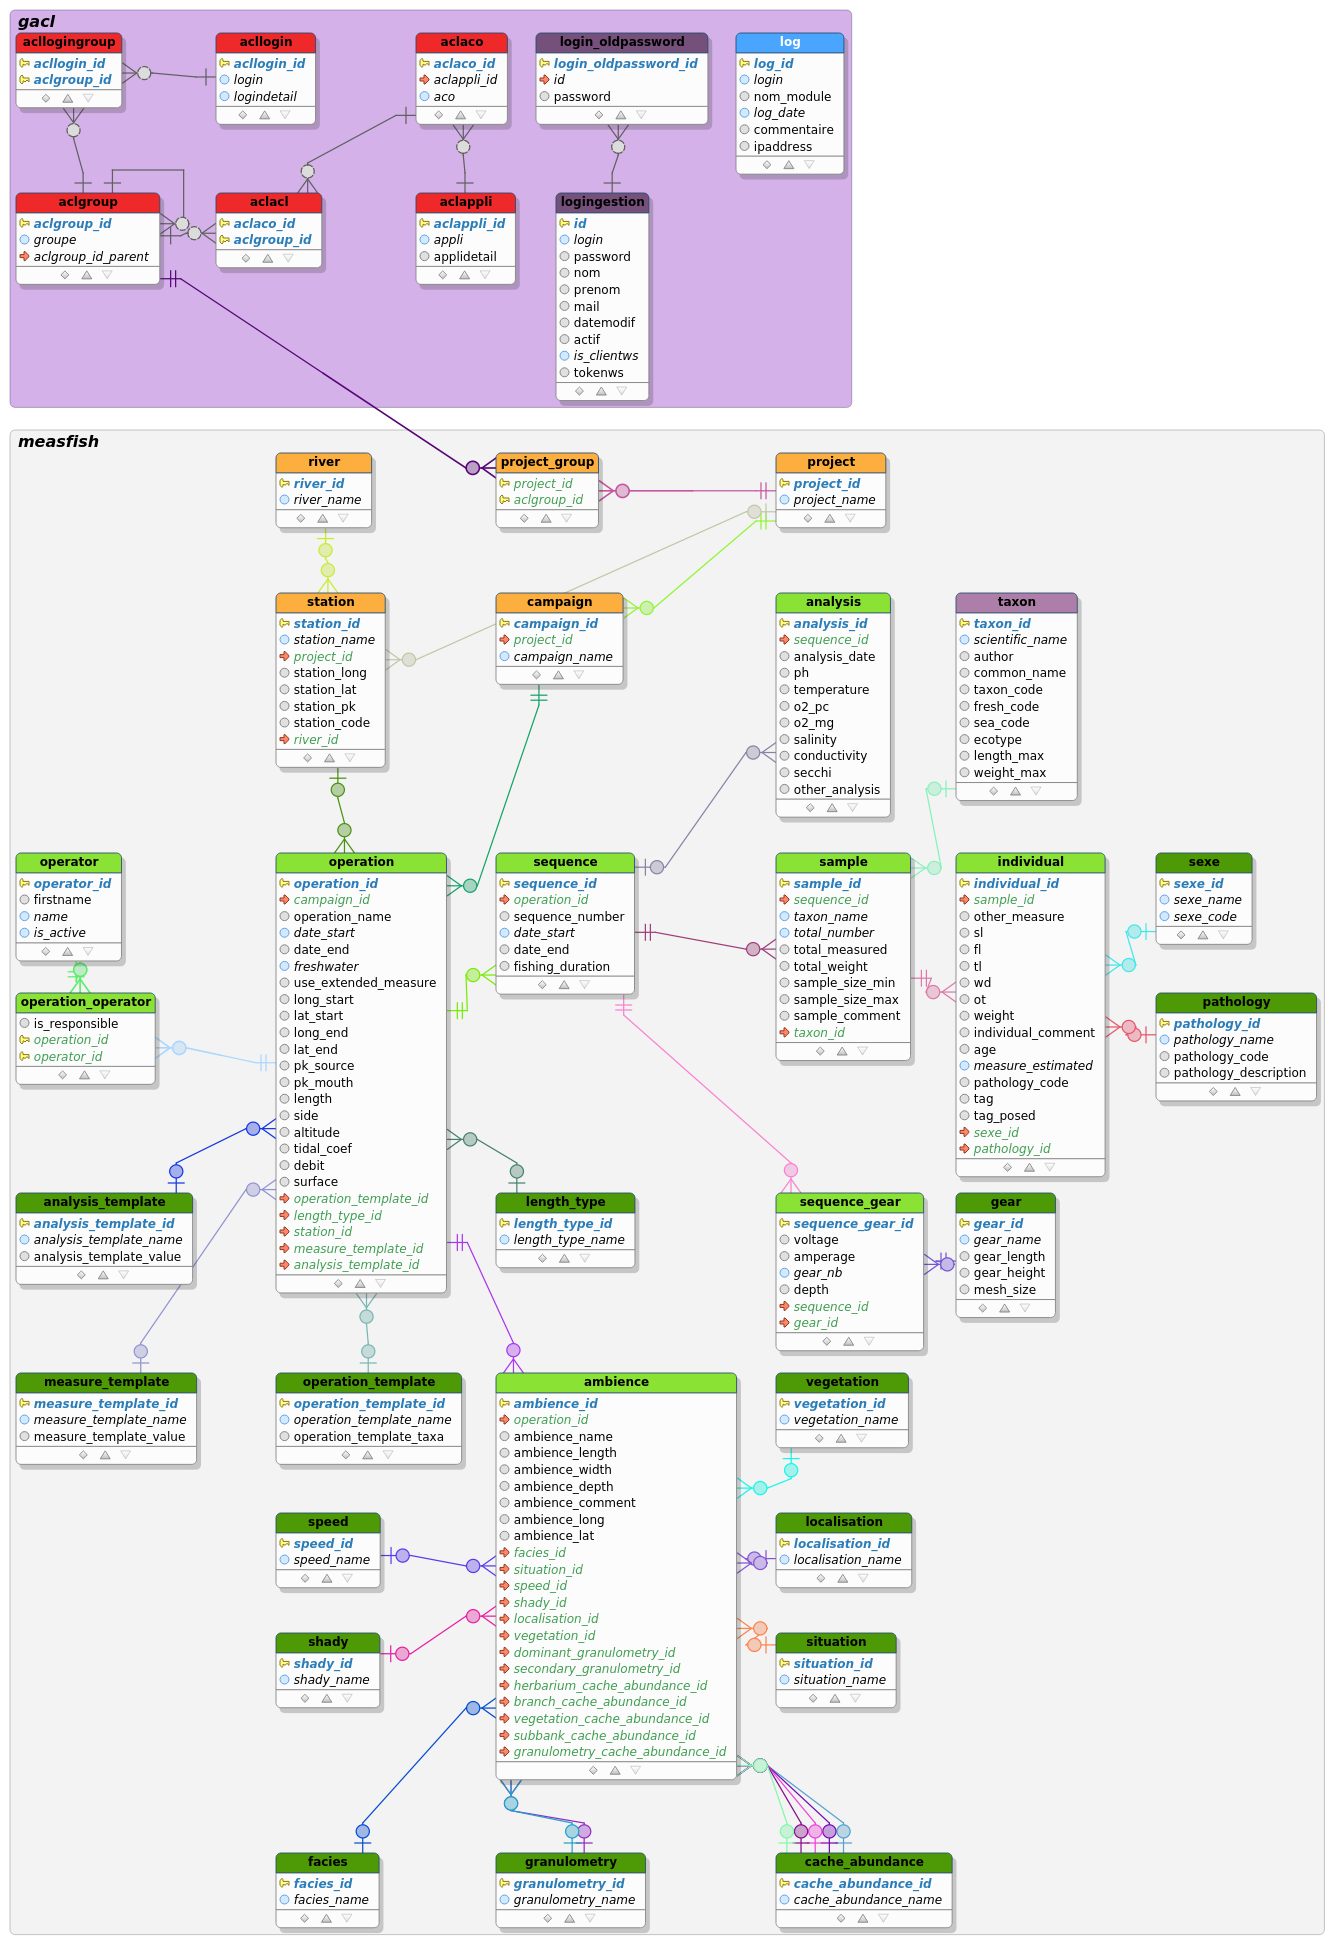
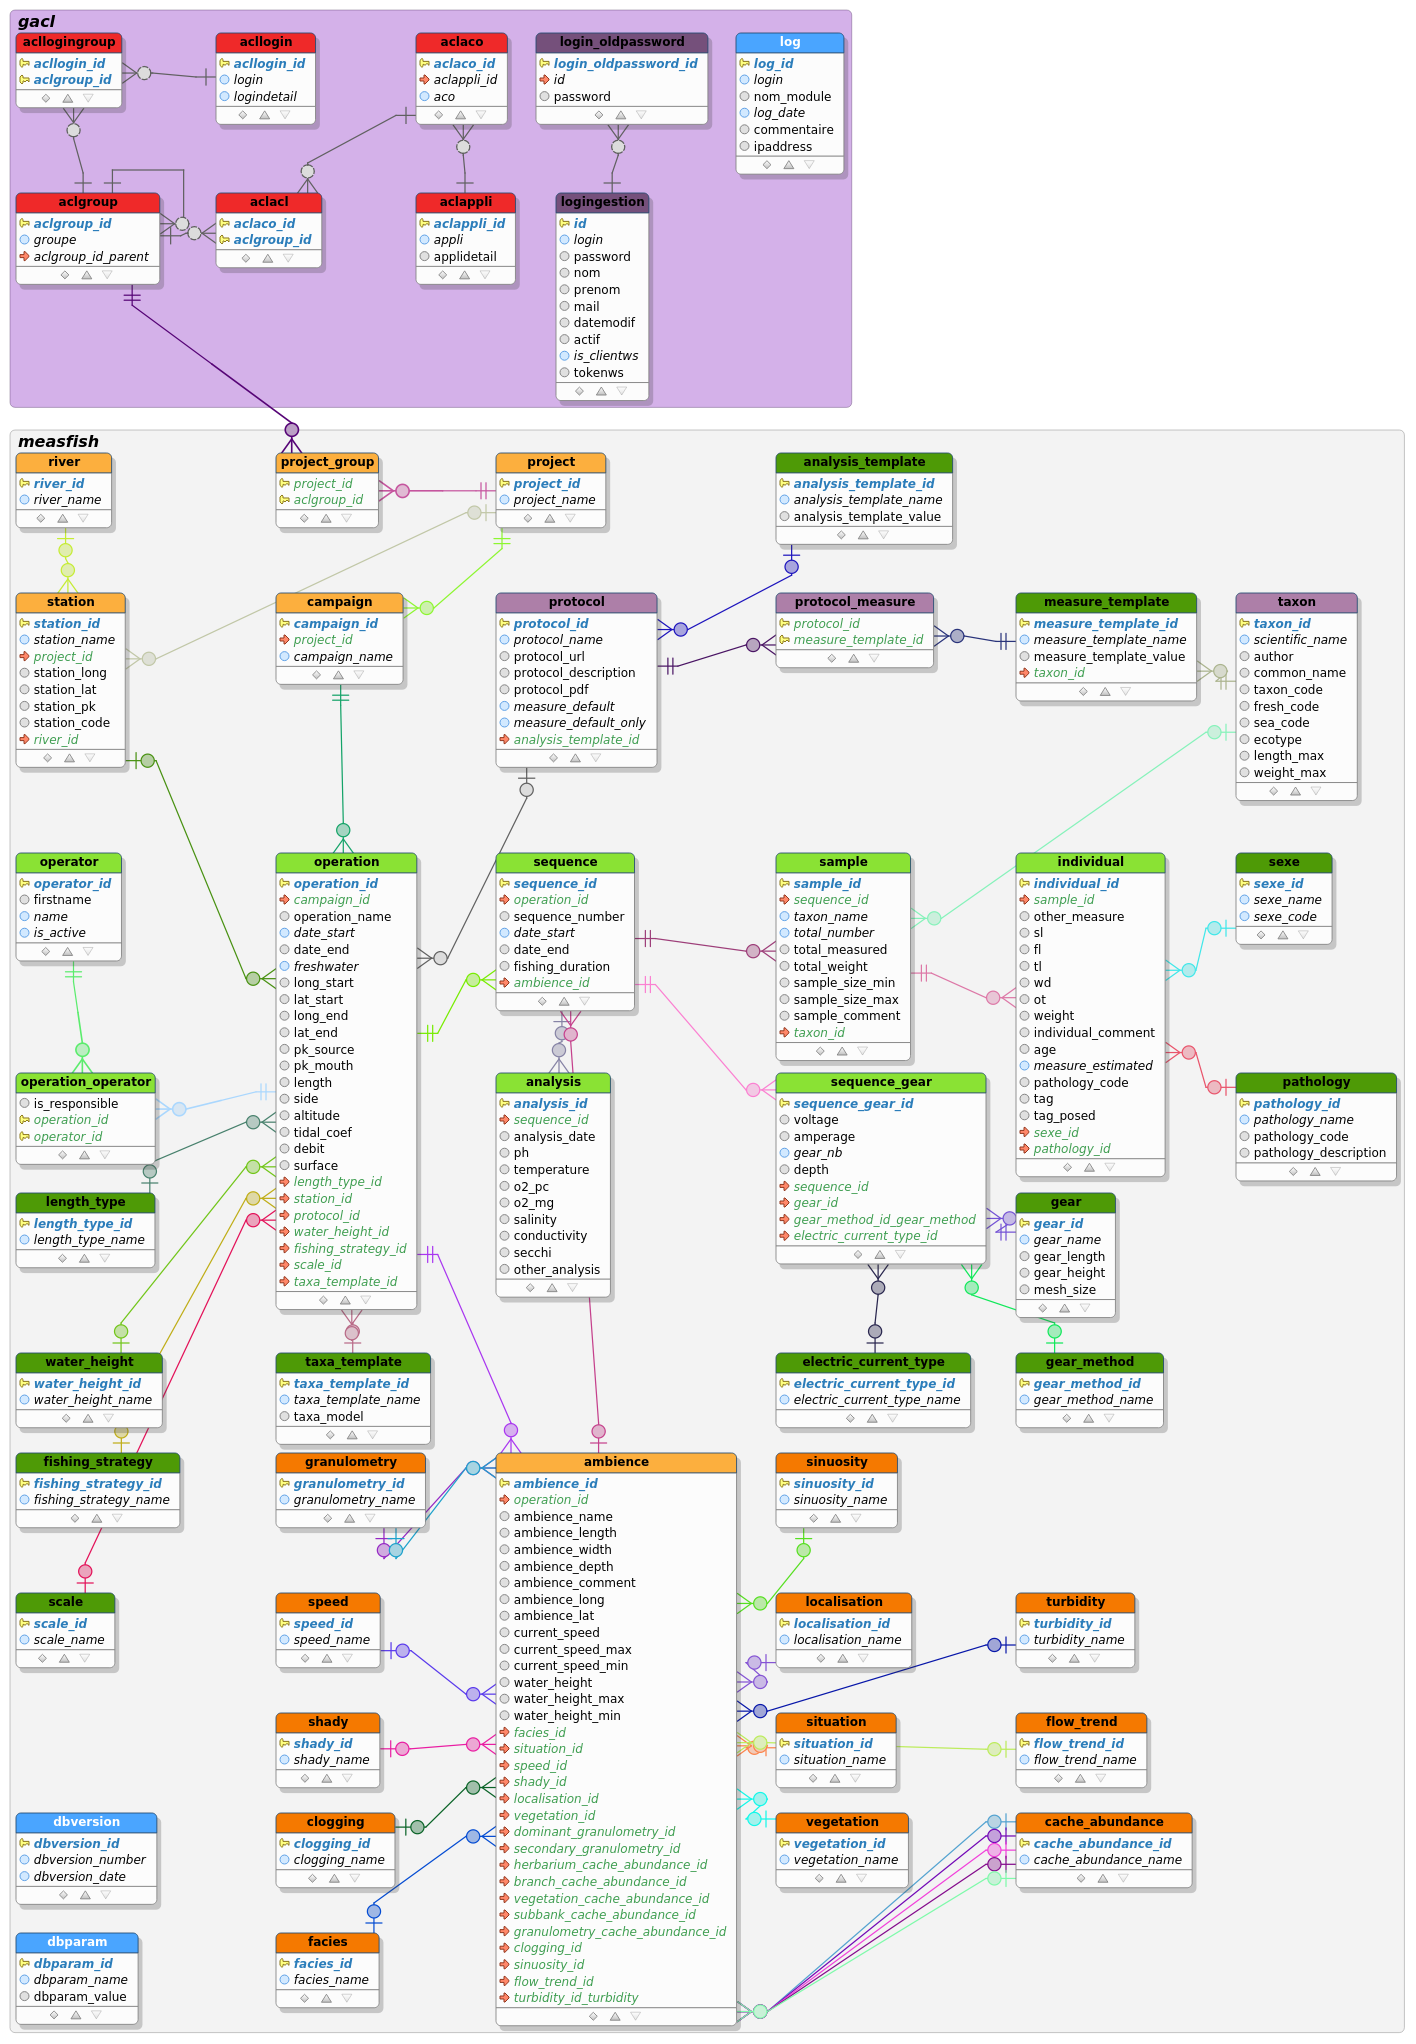
:feat protocol: début de saisie des protocoles

Changed region(s): [[0.0, 0.0, 1.0, 1.0], [0.0, 0.0, 0.2455, 0.1542], [0.0, 0.8633, 0.1228, 1.0]]

diff --git a/display/CSS/bootstrap-prototypephp.css b/display/CSS/bootstrap-prototypephp.css
@@ -12,7 +12,7 @@ body {
 }
 @media (max-width: 991px) {
     .form-control, .btn, li, ul, .dropdown-menu, .center-block, 
-    #message, label, div {font-size: 1.1em;},
+    #message, label, div {font-size: 1.1em;}
 	
 }
 @media (max-width: 991px) {

diff --git a/modules/classes/measure_template.class.php b/modules/classes/measure_template.class.php
@@ -1,0 +1,50 @@
+<?
+/**
+ * ORM of the table measure_template
+ */
+class Measure_template extends ObjetBDD
+{
+
+    /**
+     *
+     * @param PDO $bdd
+     * @param array $param
+     */
+    function __construct($bdd, $param = array())
+    {
+        $this->table = "measure_template";
+        $this->colonnes = array(
+            "measure_template_id" => array(
+                "type" => 1,
+                "key" => 1,
+                "requis" => 1,
+                "defaultValue" => 0
+            ),
+            "measure_template_name" => array(
+                "type" => 0,
+                "requis" => 1
+            ),
+            "measure_template_value" => array("type" => 0),
+            "taxon_id" => array("type" => 1, "requis" => 1)
+        );
+        parent::__construct($bdd, $param);
+    }
+
+    /**
+     * Get the list of measures templates attached at a protocol
+     *
+     * @param integer $protocol_id
+     * @return void
+     */
+    function getListFromProtocol($protocol_id)
+    {
+        $sql = "select measure_template_id, measure_template_name
+                , taxon_id, scientific_name, common_name, fresh_code, sea_code
+                from protocol_measure
+                join measure_template using(measure_template_id)
+                join taxon using (taxon_id)
+                where protocol_id = :protocol_id
+                order by measure_template_name";
+        return $this->getListeParamAsPrepared($sql, array("protocol_id" => $protocol_id));
+    }
+}

diff --git a/modules/param/protocol.php b/modules/param/protocol.php
@@ -1,0 +1,48 @@
+<?
+include_once 'modules/classes/protocol.class.php';
+$dataClass = new Protocol($bdd, $ObjetBDDParam);
+$keyName = "protocol_id";
+$id = $_REQUEST[$keyName];
+
+
+switch ($t_module["param"]) {
+    case "list":
+        $vue->set($dataClass->getListe(1), "data");
+        $vue->set("param/protocolList.tpl", "corps");
+        break;
+    case "change":
+        /*
+		 * open the form to modify the record
+		 * If is a new record, generate a new record with default value :
+		 * $_REQUEST["idParent"] contains the identifiant of the parent record 
+		 */
+        dataRead($dataClass, $id, "param/protocolChange.tpl");
+        break;
+    case "display":
+        $vue->set($dataClass->getDetail($id), $data);
+        $vue->set("param/protocolDisplay.tpl", "corps");
+
+        /**
+         * List of measures templates
+         */
+        include_once 'modules/classes/measure_template.class.php';
+        $mt = new Measure_template($bdd, $ObjetBDDParam);
+        $vue->set($mt->getListFromProtocol($id), "mtdata");
+        break;
+
+    case "write":
+        /*
+		 * write record in database
+		 */
+        $id = dataWrite($dataClass, $_REQUEST);
+        if ($id > 0) {
+            $_REQUEST[$keyName] = $id;
+        }
+        break;
+    case "delete":
+        /*
+		 * delete record
+		 */
+        dataDelete($dataClass, $id);
+        break;
+}

diff --git a/modules/classes/analyse_template.class.php b/modules/classes/analyse_template.class.php
@@ -1,0 +1,31 @@
+<?
+/**
+ * ORM of the table analyse_template
+ */
+class Analyse_template extends ObjetBDD
+{
+
+    /**
+     *
+     * @param PDO $bdd
+     * @param array $param
+     */
+    function __construct($bdd, $param = array())
+    {
+        $this->table = "analyse_template";
+        $this->colonnes = array(
+            "analyse_template_id" => array(
+                "type" => 1,
+                "key" => 1,
+                "requis" => 1,
+                "defaultValue" => 0
+            ),
+            "analyse_template_name" => array(
+                "type" => 0,
+                "requis" => 1
+            ),
+            "analyse_template_value" => array("type"=>0)
+        );
+        parent::__construct($bdd, $param);
+    }
+}
